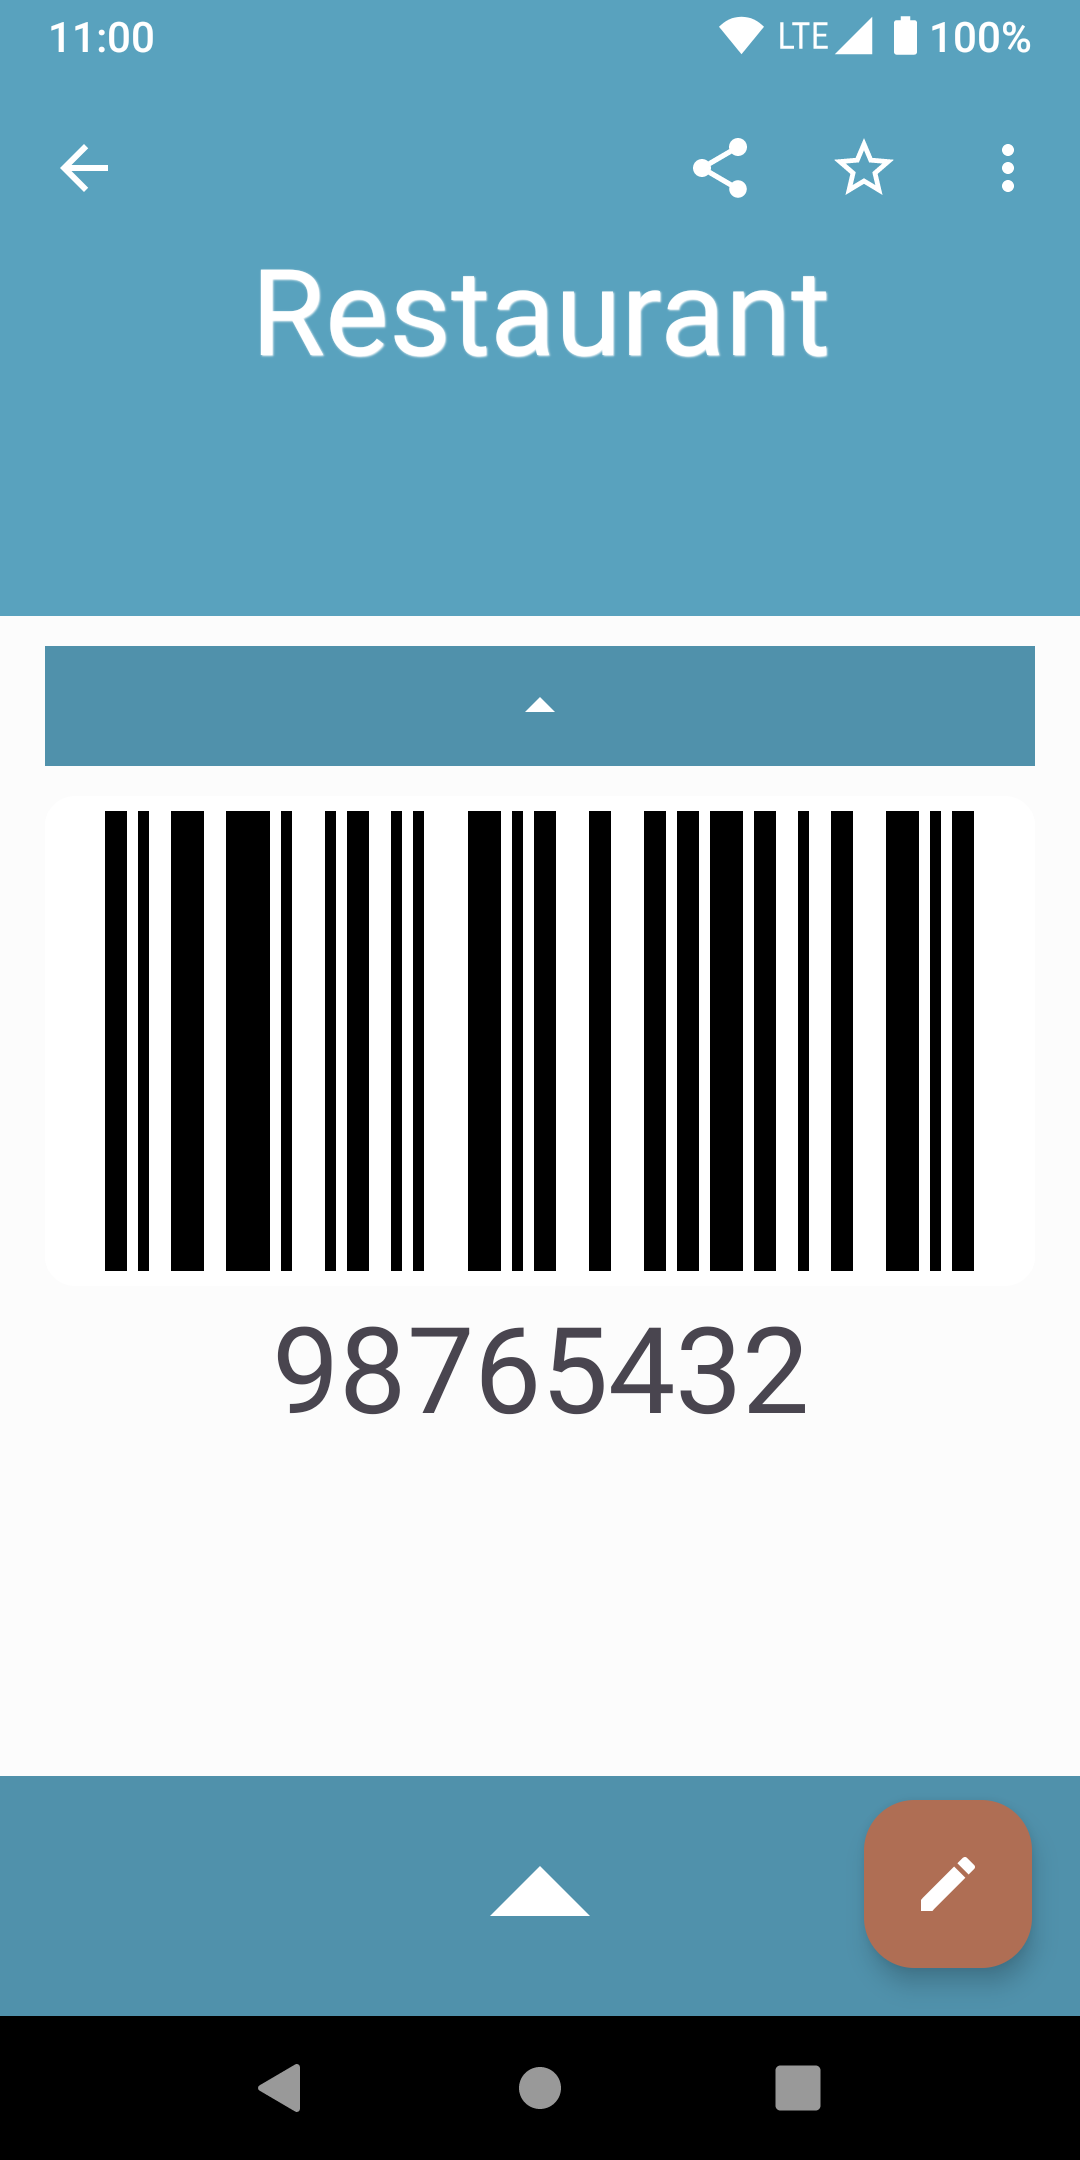
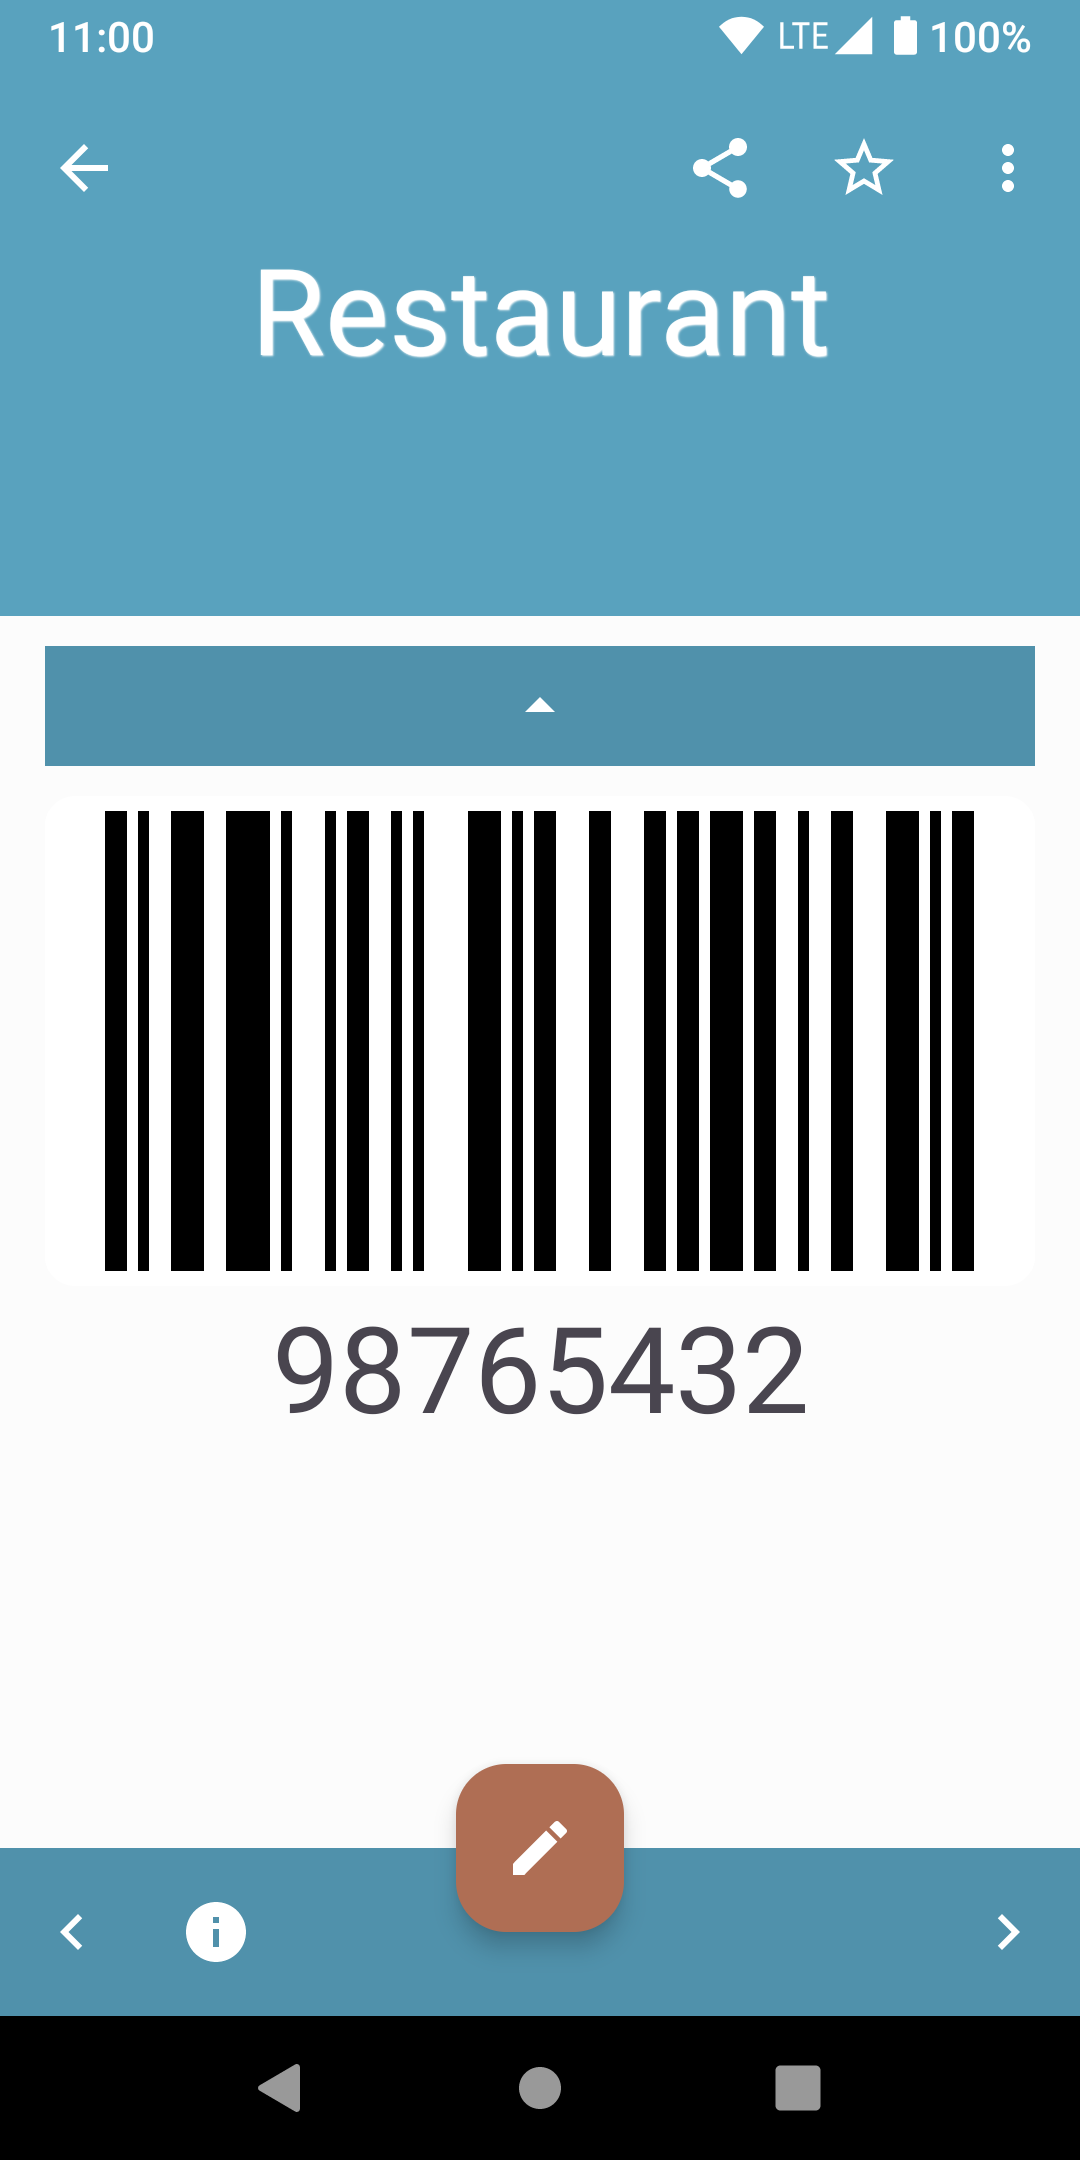
Update metadata

Changed region(s): [[0.0, 0.8065, 1.0, 0.9306]]

diff --git a/CHANGELOG.md b/CHANGELOG.md
@@ -1,5 +1,9 @@
 # Changelog
 
+## Unreleased - 113
+
+- Add previous and next buttons to the loyalty card view
+
 ## v2.18.2 - 112
 
 - Make the possibility to set a custom header more visible
